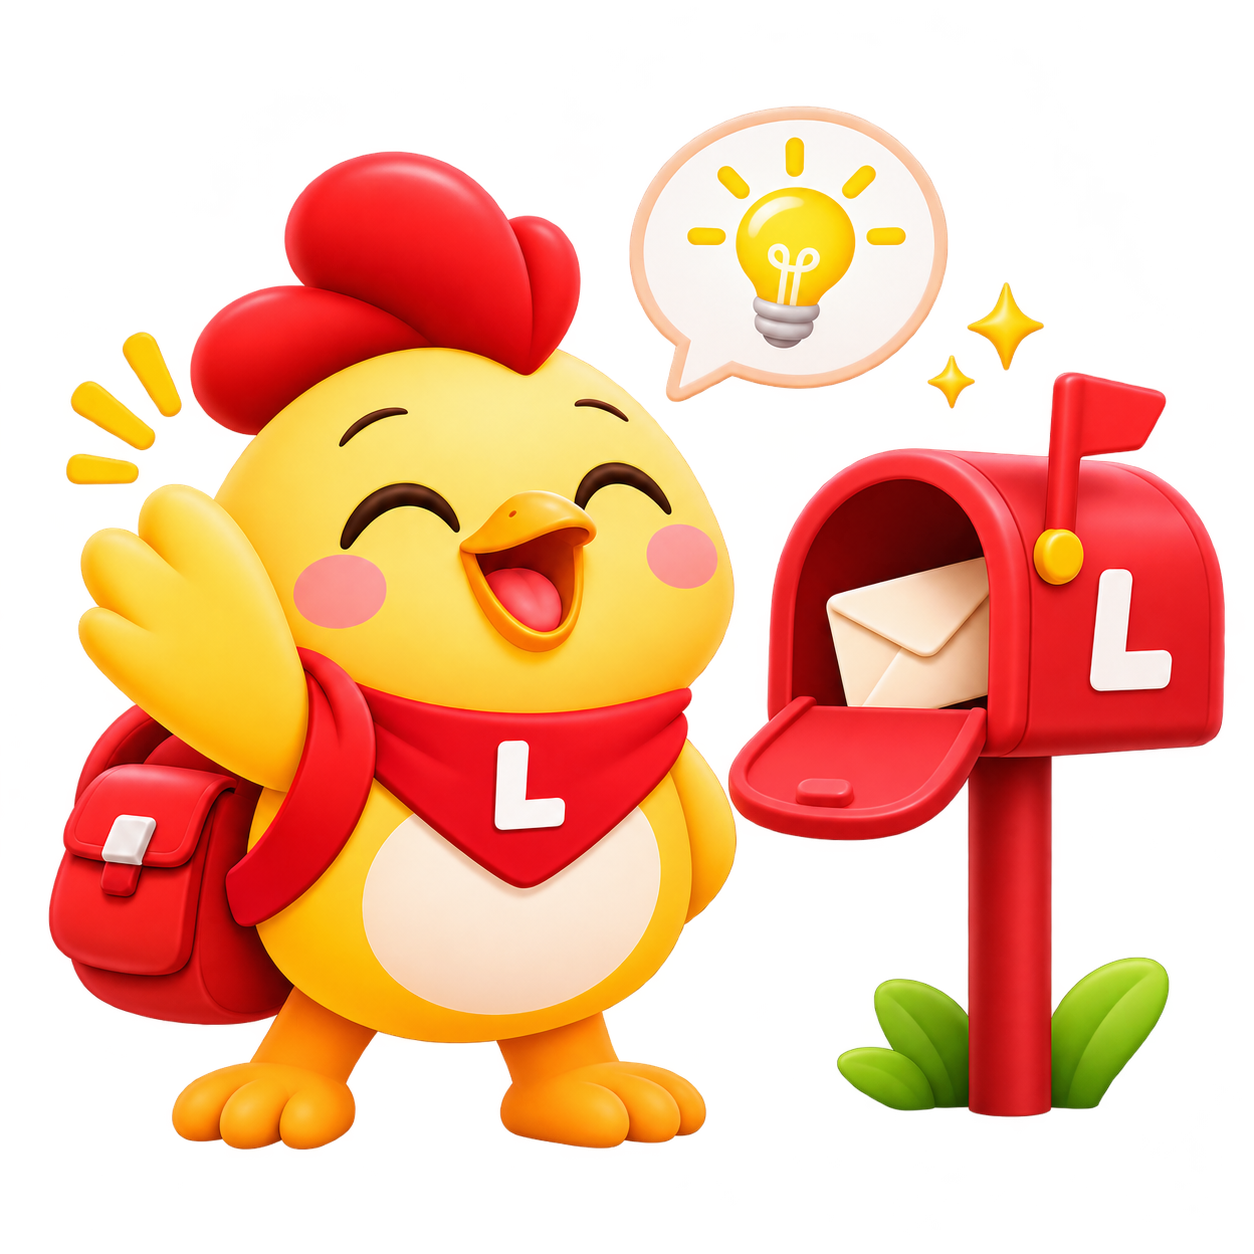
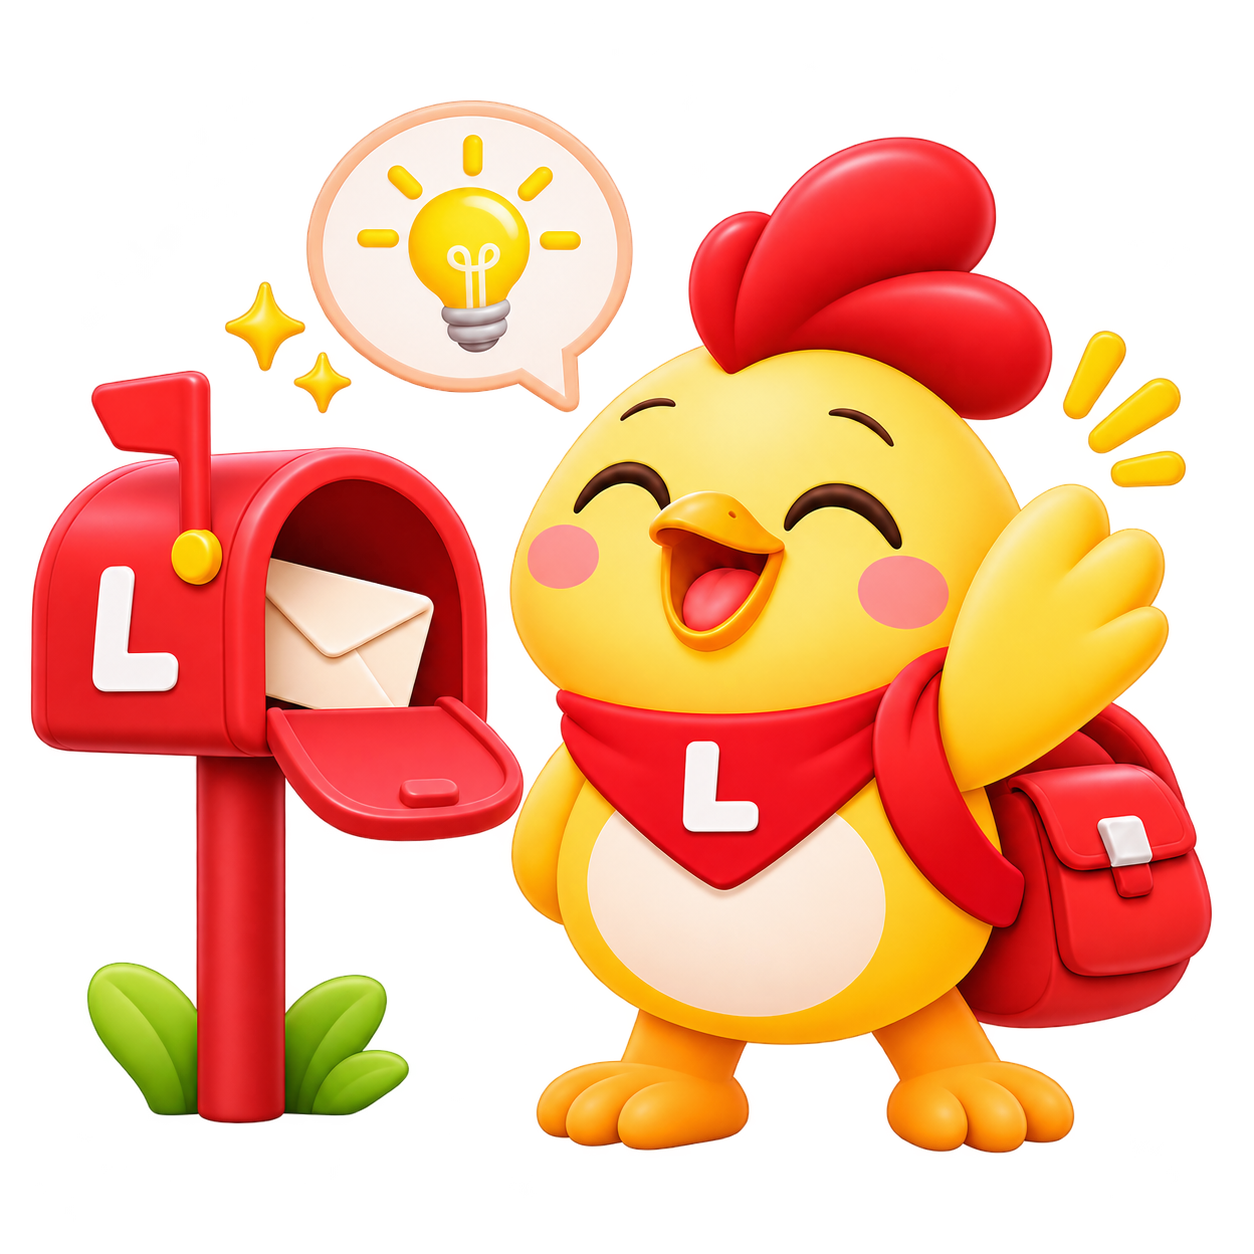
style(feedback): tạo lại mascot hướng về biểu mẫu góp ý

diff --git a/docs/LandingPageStructure.md b/docs/LandingPageStructure.md
@@ -154,9 +154,9 @@ Section `#dong-gop` dùng nền đỏ gradient, họa tiết cong mờ, chữ tr
 ## 11. Giao diện section Góp ý
 
 - Section `#gop-y` theo mẫu: nền hồng nhạt có họa tiết cong, hai cột trên desktop; màn hình tối đa 800px xếp dọc.
-- Cột trái có nhãn “CÙNG LÀM LEARNSPACE TỐT HƠN”, tiêu đề “Bạn muốn LearnSpace có thêm gì?” đen/đỏ và lời mời chia sẻ ý tưởng.
-- Mascot mới `/mascot-feedback.png`: gà vàng khăn đỏ chữ L, ba lô đỏ đứng cạnh hộp thư đỏ có phong bì và bóng đèn ý tưởng; ảnh nền trong suốt đặt dưới mô tả.
-- Cột phải là form trắng bo góc lớn; ba lựa chọn dạng pill: Tài liệu / chủ đề mới, Tính năng muốn có, Góp ý khác. Giá trị API vẫn là `content`, `feature`, `other`.
+- Cột phải có nhãn “CÙNG LÀM LEARNSPACE TỐT HƠN”, tiêu đề “Bạn muốn LearnSpace có thêm gì?” đen/đỏ và lời mời chia sẻ ý tưởng. Trên màn hình tối đa 800px, giới thiệu và ảnh ở trên form.
+- Mascot `/mascot-feedback.png`: hộp thư đỏ có phong bì ở bên trái, gà vàng khăn đỏ chữ L và ba lô đỏ ở bên phải hướng về form, bóng đèn ý tưởng phía trên; chữ L giữ đúng chiều, ảnh nền trong suốt đặt dưới mô tả.
+- Cột trái là form trắng bo góc lớn; ba lựa chọn dạng pill: Tài liệu / chủ đề mới, Tính năng muốn có, Góp ý khác. Giá trị API vẫn là `content`, `feature`, `other`.
 - Ô nội dung nền xám nhạt, placeholder nhiều dòng gợi ý tài liệu/tính năng/góp ý; giữ giới hạn 10–2.000 ký tự, label và hướng dẫn truy cập. Nút đỏ “Gửi đề xuất” kèm icon máy bay giấy.
 - Giữ nguyên API và quyền riêng tư: chỉ xóa form khi lưu thành công, giữ nội dung khi lỗi, khóa form trong lúc gửi và hiển thị thông báo trạng thái.
 

diff --git a/docs/FeedbackMascotPrompt.md b/docs/FeedbackMascotPrompt.md
@@ -1,0 +1,9 @@
+# Ảnh mascot Góp ý
+
+- Asset: `public/mascot-feedback.png`.
+- Công cụ: `image_gen` tích hợp, chỉnh sửa từ ảnh mascot trước đó, nền trong suốt.
+- Bố cục: hộp thư bên trái, gà bên phải hướng về form; chữ L đúng chiều.
+
+## Prompt
+
+Use case: precise-object-edit. Edit target: the attached LearnSpace mascot image. Regenerate this polished cute glossy 3D yellow chicken and red mailbox illustration with the entire composition reversed horizontally: red open mailbox with cream envelope on the LEFT, smiling yellow chicken on the RIGHT facing slightly LEFT toward the mailbox and toward a form that will sit to its left. Move its red backpack and waving wing to the RIGHT, reverse the red comb, retain happy closed eyes, pink cheeks, red scarf, cream belly, orange feet, small green leaves at mailbox foot. Idea lightbulb bubble above between subjects and tiny yellow sparkles. Crucial: the white uppercase letter 'L' on BOTH scarf and mailbox must read normally, never mirrored. Preserve character identity, material, palette and quality of reference. Transparent background with clean alpha edges, entire subjects visible, balanced square framing with minimal empty margins. No extra text, no watermark, no UI.
